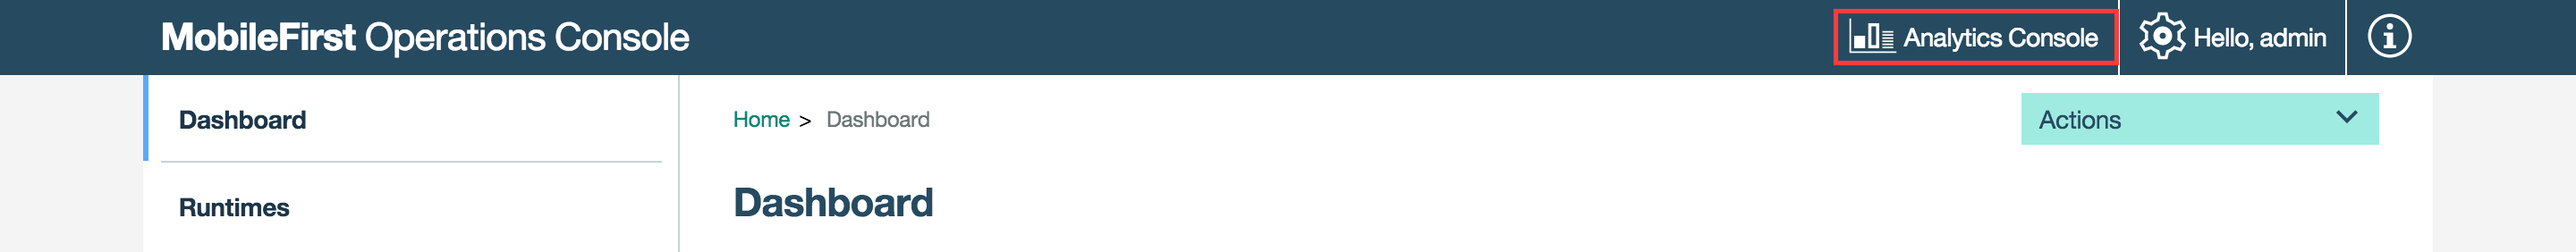
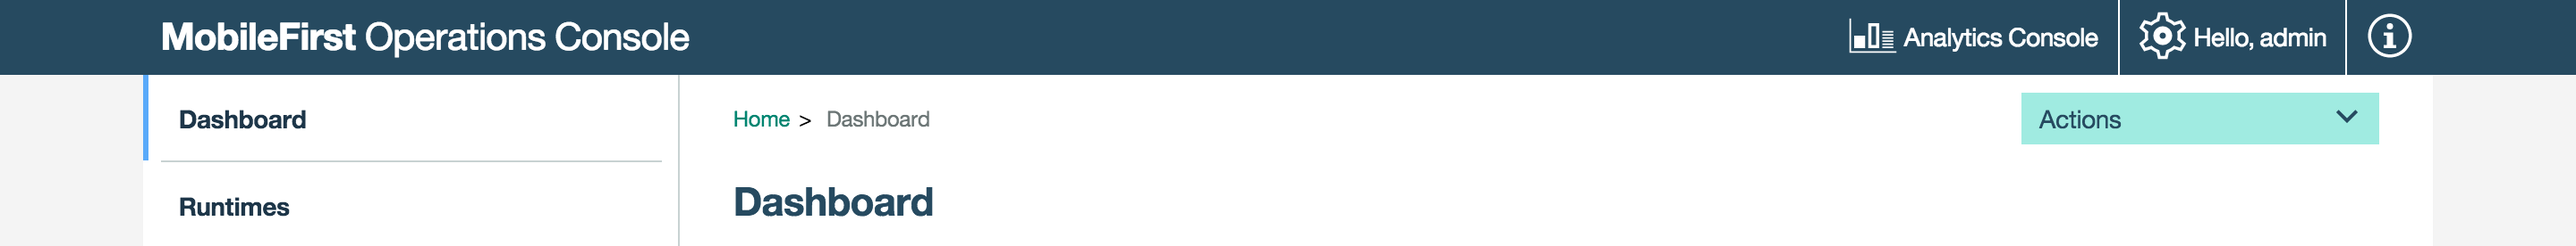
update analytics image

diff --git a/tutorials/en/foundation/8.0/analytics/index.md b/tutorials/en/foundation/8.0/analytics/index.md
@@ -21,7 +21,7 @@ Operational Analytics is bundled by default as part of the [MobileFirst Platform
 * [Tutorials to follow next](#tutorials-to-follow-next)
 
 ## MobileFirst Analytics Console
-You can open the Analytics Console from the MobileFirst Operations Console.
+You can open the Analytics Console from the MobileFirst Operations Console, by clicking on "Analytics Console".
 
 ![Analytics console button](analytics-console-button.png)
 
